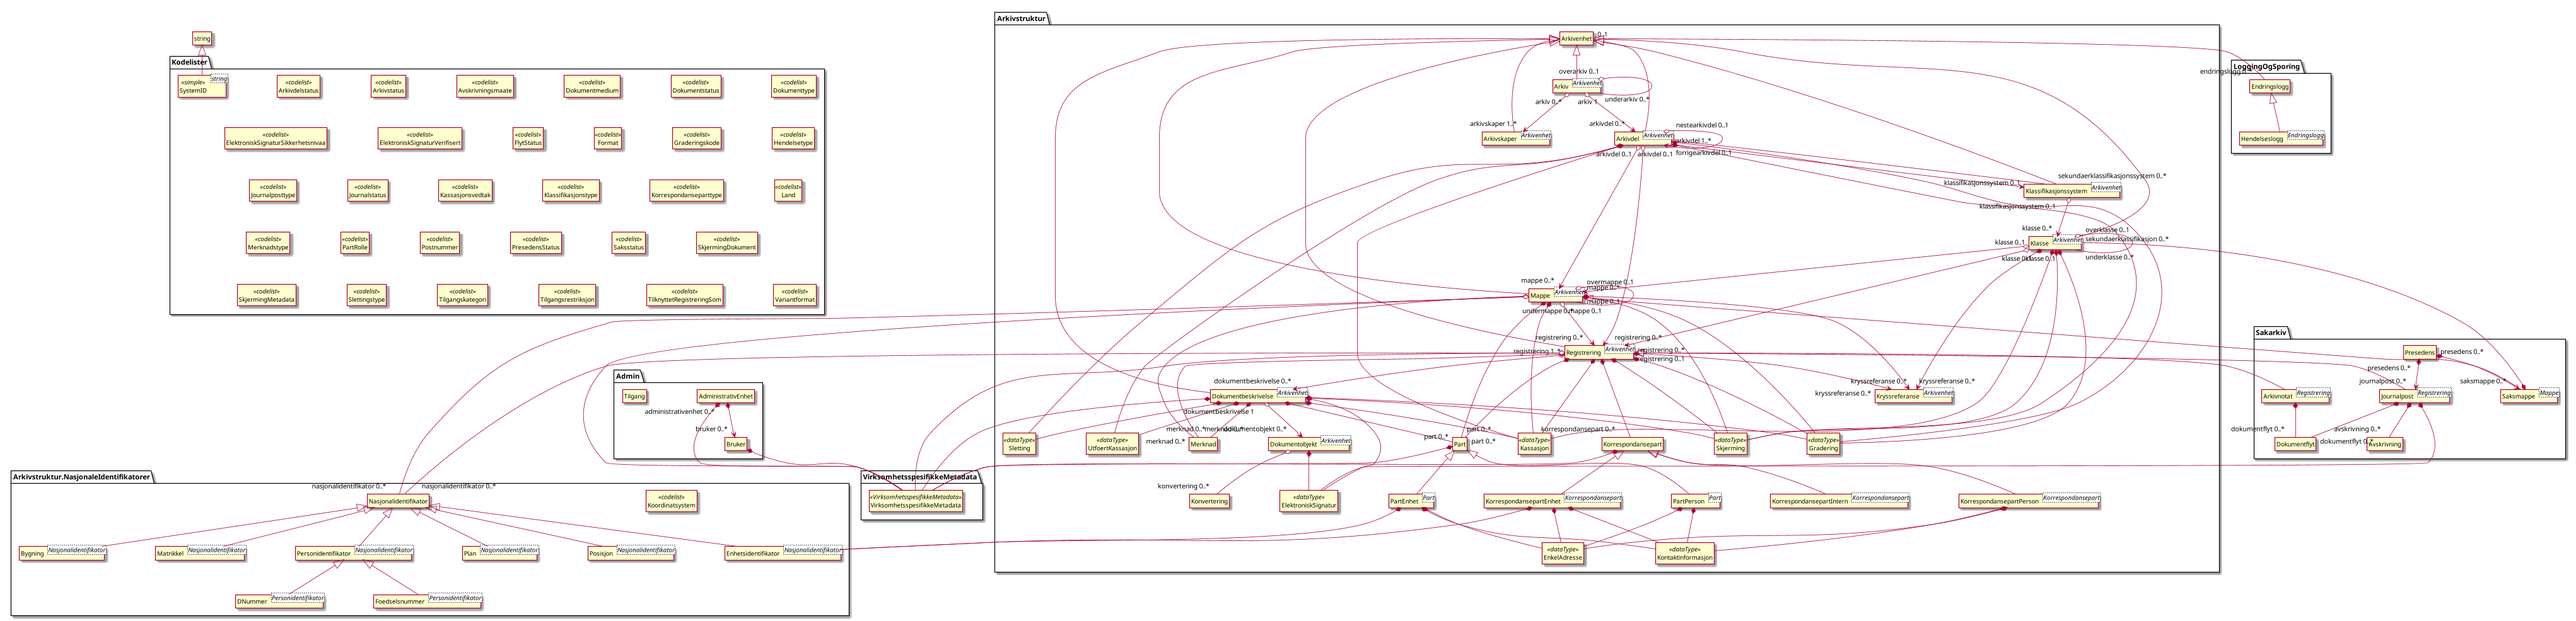
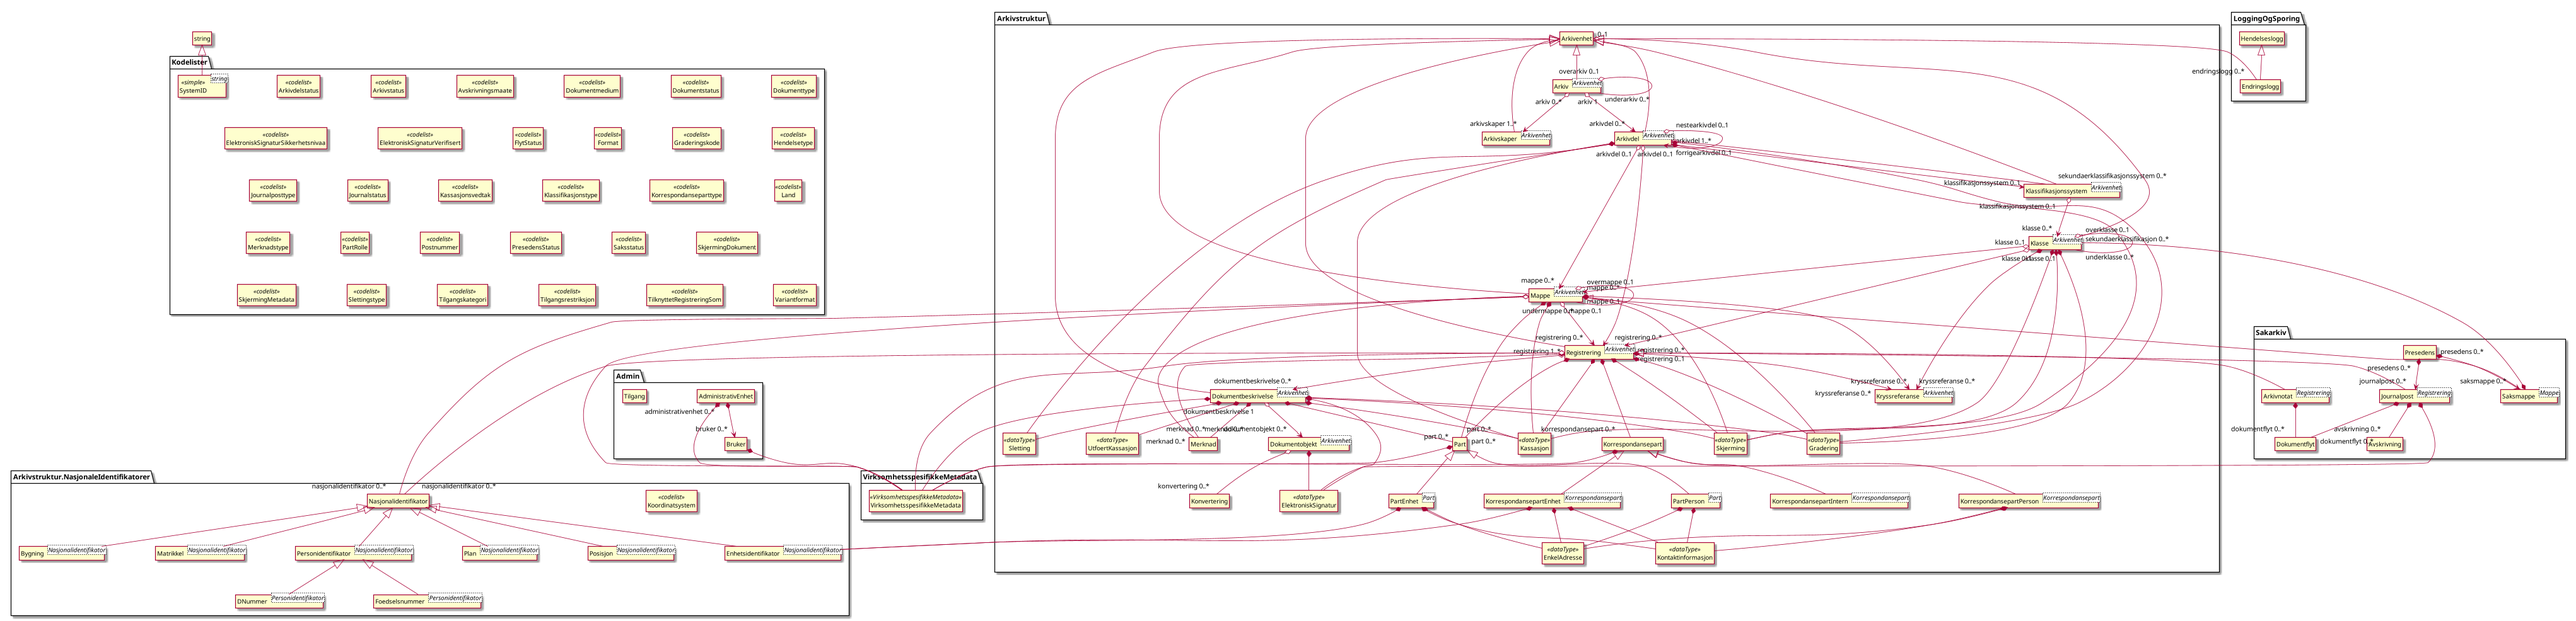
Korriger modul LoggingOgSporing (bytt arv endringslogg/hendelseslogg)
En endring bør være en underklasse av hendelse, da en endring er en
hendelse men alle hendelser ikke er endringer.  Dette fjerner
behovet for redundant datofelt (endretDato/M683 og hendelseDato), samt
behovet for å introdusere en ny metadatatype for hendelseDato.

Endre beskrivelse av relasjon tilbake til endret entitet i endringslogg,
da relasjonsnøkkel basert på entitetens type vil gi relasjonsnøkkelkonflikt
ved endring av brukerentiteter, og introduser ny relasjonsnøkkel for
arkivenhet for å unngå konflikten.

diff --git a/kapitler/07-tjenester_og_informasjonsmodell.rst b/kapitler/07-tjenester_og_informasjonsmodell.rst
@@ -7954,93 +7954,6 @@ Skjema for logging og sporing
 
    LoggingOgSporing - (diagram)
 
-Endringslogg
-^^^^^^^^^^^^
-
-|image45|
-
-*Type:* **Class**
-
-*Arver:*
-
-Relasjonen tilbake til aktuell Arkivenhet bruker relasjonsnøkkel for
-relevant under-entitet, og det er derfor ikke egen relasjonsnøkkel for
-denne relasjonen.
-
-.. list-table:: Relasjoner
-   :widths: 4 3 3 1
-   :header-rows: 1
-
- * - **Relasjon**
-   - **Kilde**
-   - **Mål**
-   - **Merknad**
- * - **Aggregation** (Destination → Source)
-   - endringslogg 0..\* Endringslogg
-   - 0..1 Arkivenhet
-   -
- * - **Generalization** (Source → Destination)
-   - Hendelseslogg
-   - Endringslogg
-   -
-
-.. list-table:: Relasjonsnøkler
-   :header-rows: 1
-
- * - **Verdi**
- * - self
- * - https://rel.arkivverket.no/noark5/v5/api/loggingogsporing/endringslogg/
-
-.. list-table:: Attributter
-   :widths: 4 10 1 1 4
-   :header-rows: 1
-
- * - **Navn**
-   - **Merknad**
-   - **Forek.**
-   - **Kode**
-   - **Type**
- * - systemID
-   -
-   - [0..1] [1..1]
-   -
-   - SystemID
- * - referanseArkivenhet
-   - M680
-   - [0..1]
-   -
-   - SystemID
- * - referanseMetadata
-   - M681
-   - [0..1]
-   -
-   - string
- * - endretDato
-   - M682
-   - [0..1] [1..1]
-   -
-   - datetime
- * - endretAv
-   - M683
-   - [0..1] [1..1]
-   -
-   - string
- * - referanseEndretAv
-   - referanse til Bruker sin systemID
-   - [0..1] [1..1]
-   -
-   - SystemID
- * - tidligereVerdi
-   - M684
-   - [0..1]
-   -
-   - string
- * - nyVerdi
-   - M685
-   - [0..1]
-   -
-   - string
-
 Hendelseslogg
 ^^^^^^^^^^^^^
 
@@ -8048,7 +7961,7 @@ Hendelseslogg
 
 *Type:* **Class**
 
-*Arver:* **Endringslogg**
+*Arver:*
 
 .. list-table:: Relasjoner
    :widths: 4 3 3 1
@@ -8059,8 +7972,8 @@ Hendelseslogg
    - **Mål**
    - **Merknad**
  * - **Generalization** (Source → Destination)
-   - Hendelseslogg
    - Endringslogg
+   - Hendelseslogg
    -
 
 
@@ -8091,11 +8004,96 @@ Hendelseslogg
    - [0..1]
    -
    - string
- * - hendelseDato
-   -
+ * - endretDato
+   - M682
    - [0..1] [1..1]
    -
    - datetime
+
+Endringslogg
+^^^^^^^^^^^^
+
+|image45|
+
+*Type:* **Class**
+
+*Arver:*
+*Arver:* **Hendelseslogg**
+
+Relasjonen tilbake til aktuell Arkivenhet bruker ikke relasjonsnøkkel
+for relevant under-entitet, da det vil gi konflikt for relasjon koblet
+til referanseEndretAv ved endring av brukerentiteter.
+
+.. list-table:: Relasjoner
+   :widths: 4 3 3 1
+   :header-rows: 1
+
+ * - **Relasjon**
+   - **Kilde**
+   - **Mål**
+   - **Merknad**
+ * - **Aggregation** (Destination → Source)
+   - endringslogg 0..\* Endringslogg
+   - 0..1 Arkivenhet
+   -
+ * - **Generalization** (Source → Destination)
+   - Endringslogg
+   - Hendelseslogg
+   -
+
+.. list-table:: Relasjonsnøkler
+   :header-rows: 1
+
+ * - **Verdi**
+ * - self
+ * - https://rel.arkivverket.no/noark5/v5/api/loggingogsporing/endringslogg/
+ * - https://rel.arkivverket.no/noark5/v5/api/arkivstruktur/arkivenhet/
+ * - https://rel.arkivverket.no/noark5/v5/api/admin/bruker/
+
+.. list-table:: Attributter
+   :widths: 4 10 1 1 4
+   :header-rows: 1
+
+ * - **Navn**
+   - **Merknad**
+   - **Forek.**
+   - **Kode**
+   - **Type**
+ * - systemID
+   -
+   - [0..1] [1..1]
+   -
+   - SystemID
+ * - referanseArkivenhet
+   - M680
+   - [0..1]
+   -
+   - SystemID
+ * - referanseMetadata
+   - M681
+   - [0..1]
+   -
+   - string
+ * - endretAv
+   - M683
+   - [0..1] [1..1]
+   -
+   - string
+ * - referanseEndretAv
+   - referanse til Bruker sin systemID
+   - [0..1] [1..1]
+   -
+   - SystemID
+ * - tidligereVerdi
+   - M684
+   - [0..1]
+   -
+   - string
+ * - nyVerdi
+   - M685
+   - [0..1]
+   -
+   - string
 
 .. |image0| image:: ./media/uml-forklaring-om-notasjon-som-er-brukt.png
    :width: 90.0%
